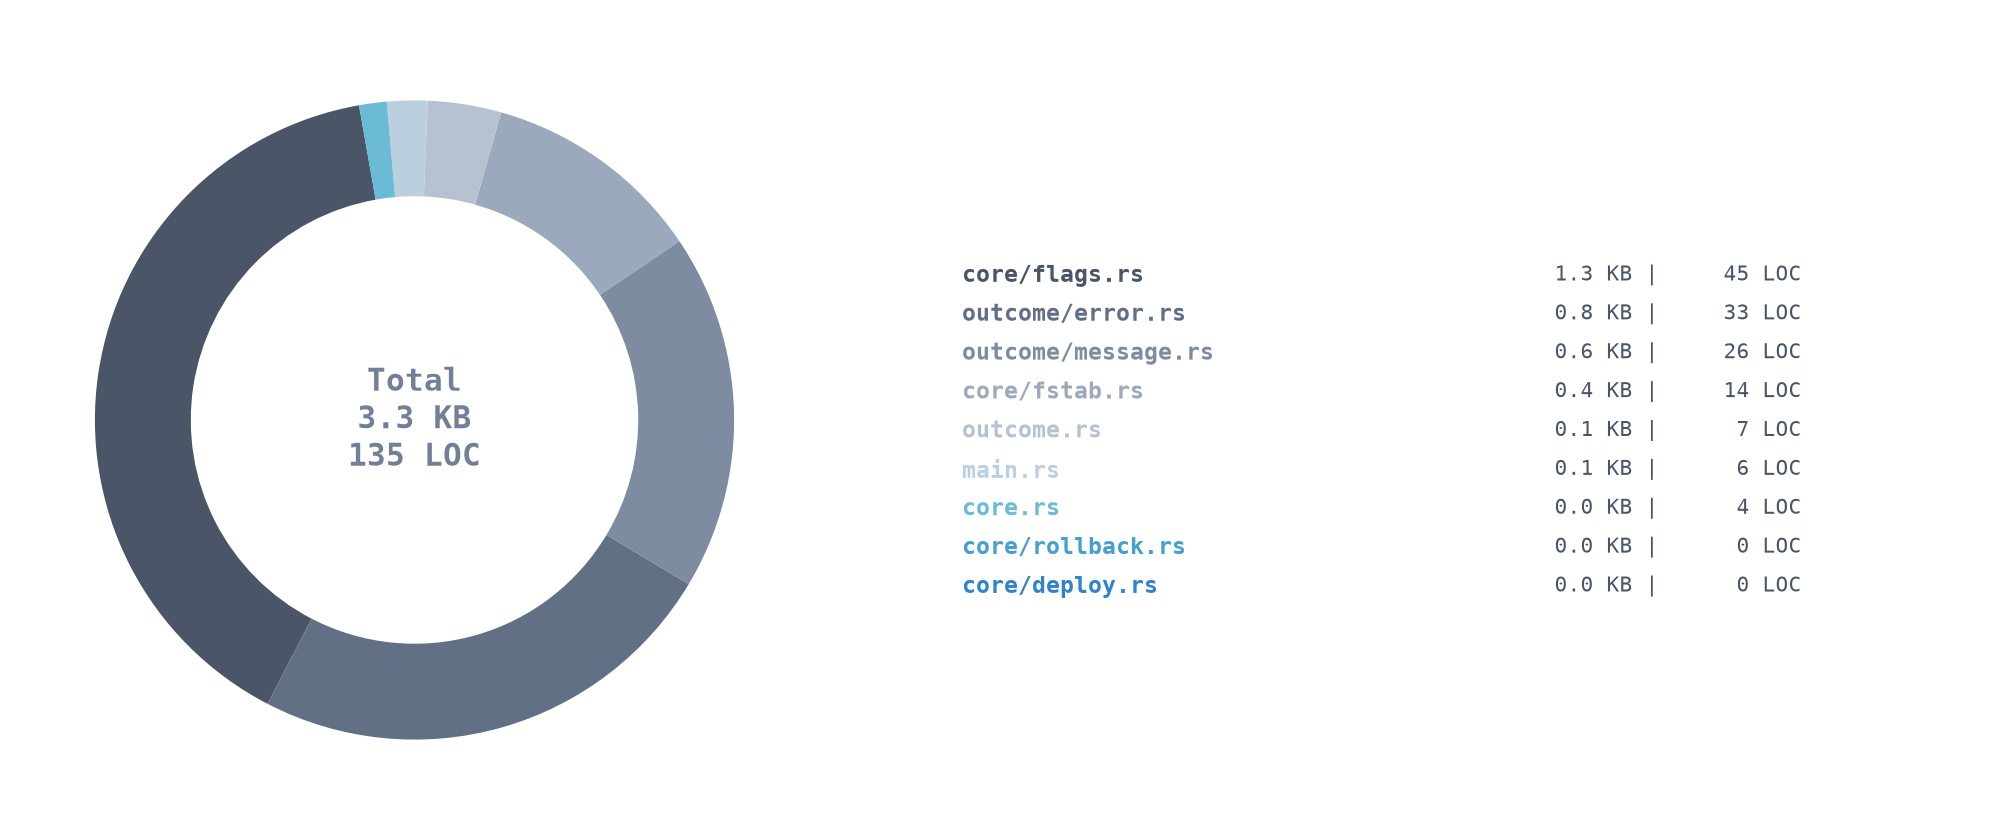
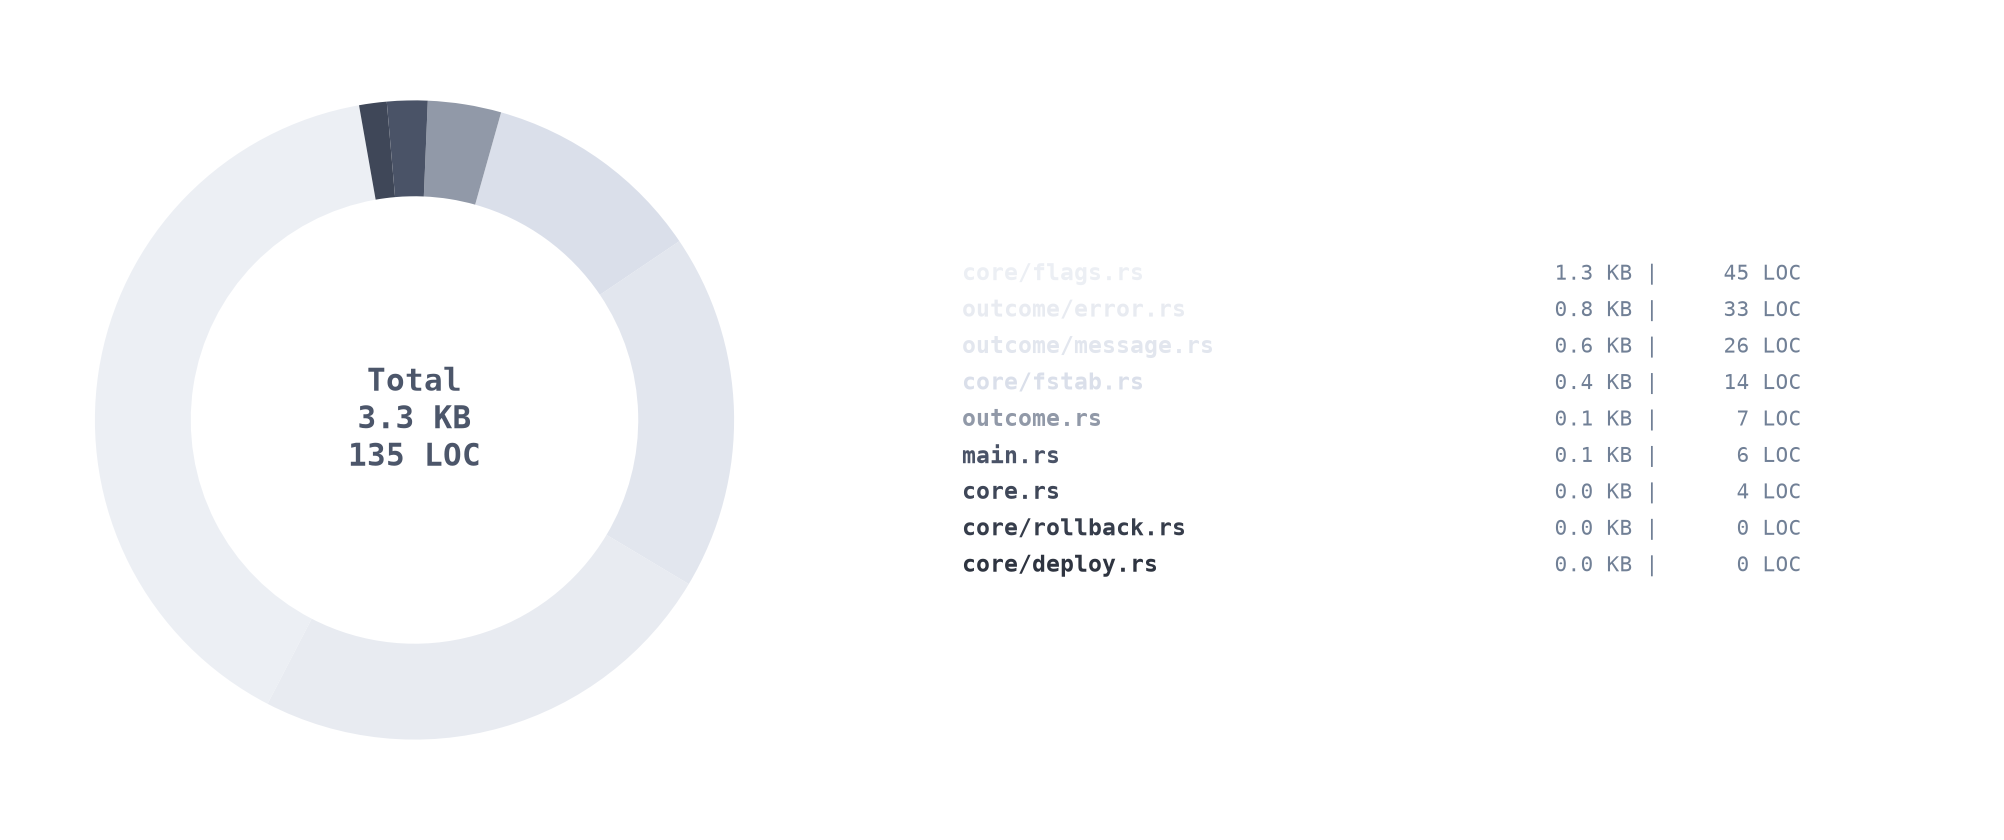
deploy-2026-07-27 17:29:56.085799

diff --git a/.ci/stats.py b/.ci/stats.py
@@ -57,8 +57,18 @@ class Analyzer:
 
 class Chart:
     def __init__(self):
-        self.pie = mcolors.LinearSegmentedColormap.from_list("p", ['#4a5568', '#718096', '#a0aec0', '#cbd5e0', '#4eb3d3', '#3182ce'])
-        self.col = '#718096'
+        self.cmap = mcolors.LinearSegmentedColormap.from_list(
+            "nord_git", ['#eceff4', '#d8dee9', '#4c566a', '#3b4252', '#2e3440']
+        )
+
+        # Строгий монохромный градиент для круговой диаграммы (без розового и синего)
+        # Плавно переходит от светлого арктического к глубокому угольному Nord0
+        self.pie = mcolors.LinearSegmentedColormap.from_list(
+            "nord_pie_mono", ['#eceff4', '#e5e9f0', '#d8dee9', '#4c566a', '#3b4252', '#2e3440']
+        )
+
+        # Базовый нейтральный цвет для текста и центральной метки (Nord3)
+        self.col = '#4c566a'
 
     def save(self, data: Dict[str, Metrics], path: str, maxn: int = 12):
         if not data:
@@ -89,7 +99,8 @@ class Chart:
 
         # Левая часть: Пончик-чарт
         ax = fig.add_subplot(gs[0], aspect="equal", facecolor='none')
-        colors = [self.pie(i / (len(sizes) - 1 or 1)) for i in range(len(sizes))]
+        n = len(sizes)
+        colors = [self.pie(i / max(n - 1, 1)) for i in range(n)]
         
         ax.pie(sizes, 
                wedgeprops=dict(width=0.3, edgecolor='none'), 
@@ -99,7 +110,7 @@ class Chart:
         ax.text(0, 0, f"Total\n{totals['size']/1024:.1f} KB\n{totals['loc']} LOC",
                 ha='center', va='center', fontsize=15, color=self.col, fontfamily='monospace', weight='bold')
 
-        # Правая часть: Список файлов с цветами из диаграммы
+        # Правая часть: Список файлов
         ax2 = fig.add_subplot(gs[1], facecolor='none')
         for s in ax2.spines.values():
             s.set_visible(False)
@@ -107,31 +118,28 @@ class Chart:
         ax2.set_yticks([])
 
         n_items = len(labels)
-        step = 0.048
+        step = 0.045                    # чуть плотнее
         total_height = (n_items - 1) * step
 
-        # Центрируем список по высоте относительно пончика (пониже, чем раньше)
-        # Верхняя граница ~0.78, нижняя ~0.22 — визуально совпадает с круговой диаграммой
-        available_top = 0.78
-        available_bottom = 0.22
-        available_height = available_top - available_bottom
-        start_y = available_top - (available_height - total_height) / 2
+        # Жёстко опускаем список, чтобы он сидел на одной высоте с пончиком
+        # Верх списка ≈ 0.72, низ ≈ 0.28
+        center_y = 0.50
+        start_y = center_y + total_height / 2
 
         y = start_y
 
         for lbl, sz, lc, color in zip(labels, sizes, locs, colors):
-            # Обрезаем длинные имена
             display_name = lbl if len(lbl) <= 35 else lbl[:32] + "..."
             
-            # Имя файла цветом из диаграммы
+            # Имя файла — ярким цветом сегмента
             ax2.text(0.05, y, display_name, 
                     fontfamily='monospace', fontsize=11, 
-                    color=color, va='top', weight='bold')
+                    color=color, va='center', weight='bold')
             
-            # Размер и LOC серым цветом
+            # Размер и LOC — нейтральный серый
             ax2.text(0.55, y, f"{sz/1024:>7.1f} KB | {lc:>6} LOC", 
                     fontfamily='monospace', fontsize=10, 
-                    color='#4a5568', va='top')
+                    color='#718096', va='center')
             y -= step
 
         plt.subplots_adjust(left=0.03, right=0.97, top=0.95, bottom=0.05)
